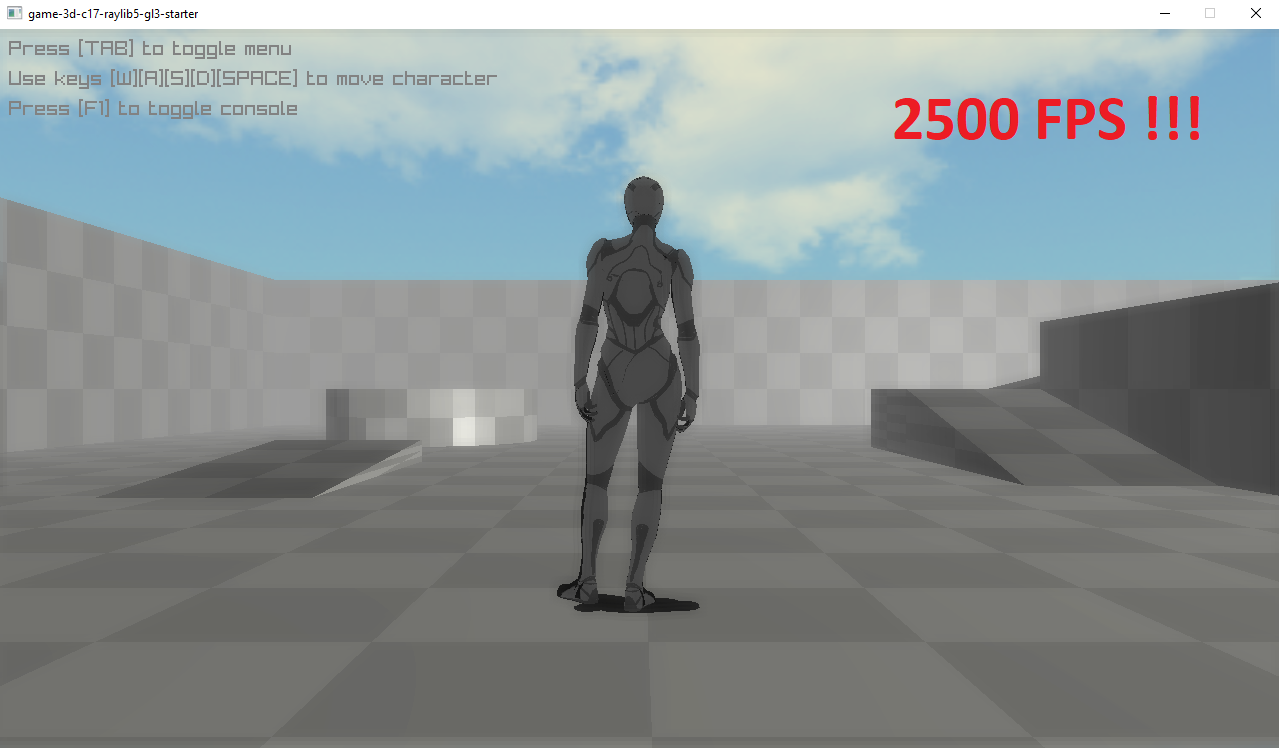
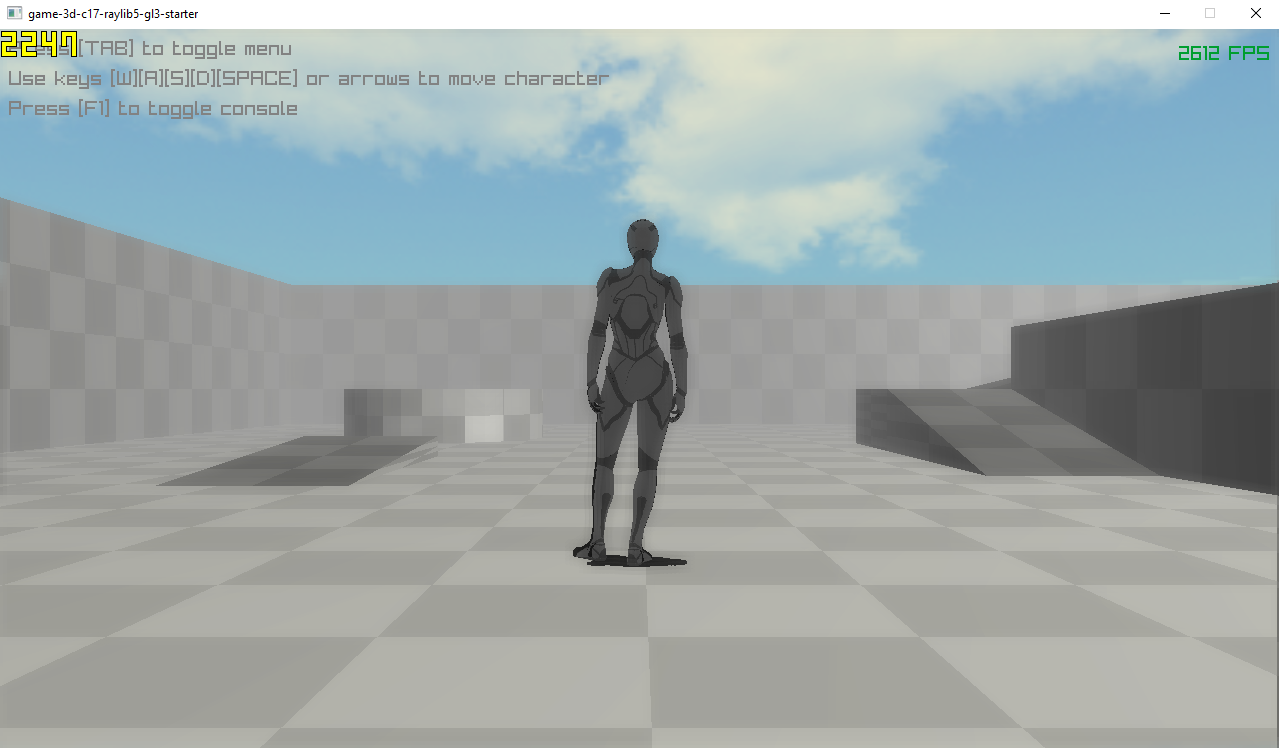
docs: ✏ fps screenshots

diff --git a/README.md b/README.md
@@ -217,6 +217,17 @@ Cause: Broken Lighting shader. Can't have lighting AND model animation at the sa
 
 ![alt text](./docs/README/faq-character-lighting.png)
 
+### What about performance ?
+
+Condition: GPU: RTX-2060, CPU: i5-9600K, RAM: 32 GB
+- Raylib (GL3) "High": `~2500 FPS` (AA `4x`, Postpro `Bloom`)
+- Raylib (GL3) "Low": `~3000 FPS`
+- Unreal (DX12) "Low": `~150 FPS` (Settings=`Low`)
+
+![alt text](./docs/README/faq-performance-fps.png)
+
+![alt text](./docs/README/faq-performance-fps-2.png)
+
 ## Resources
 
 - C
